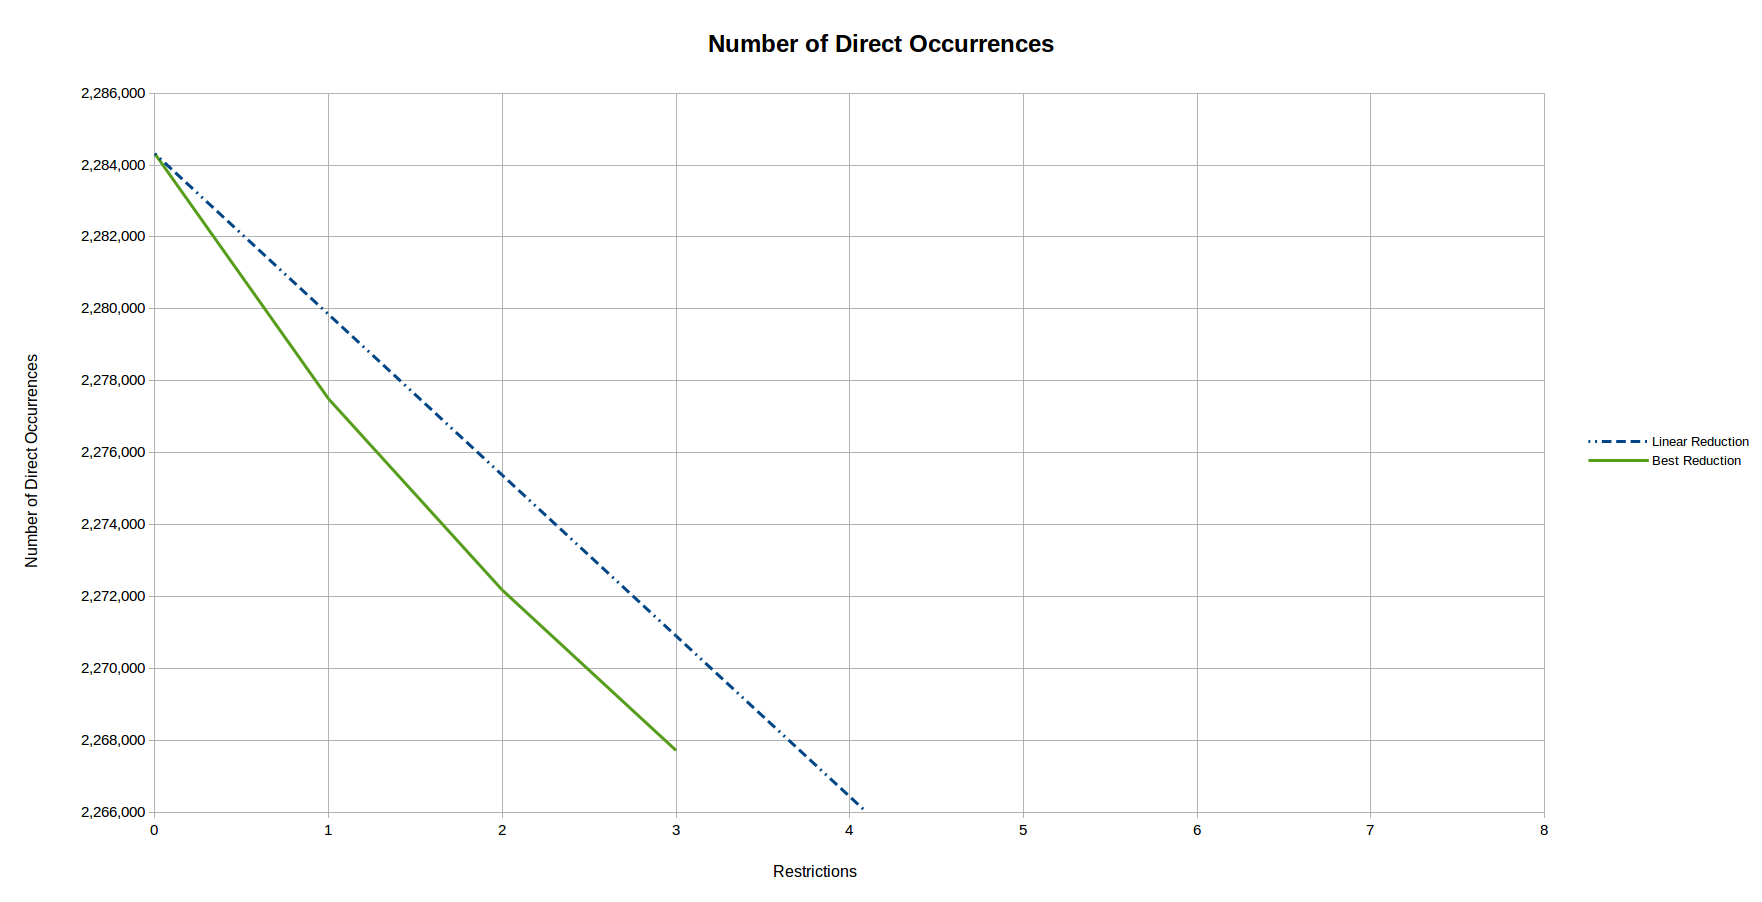
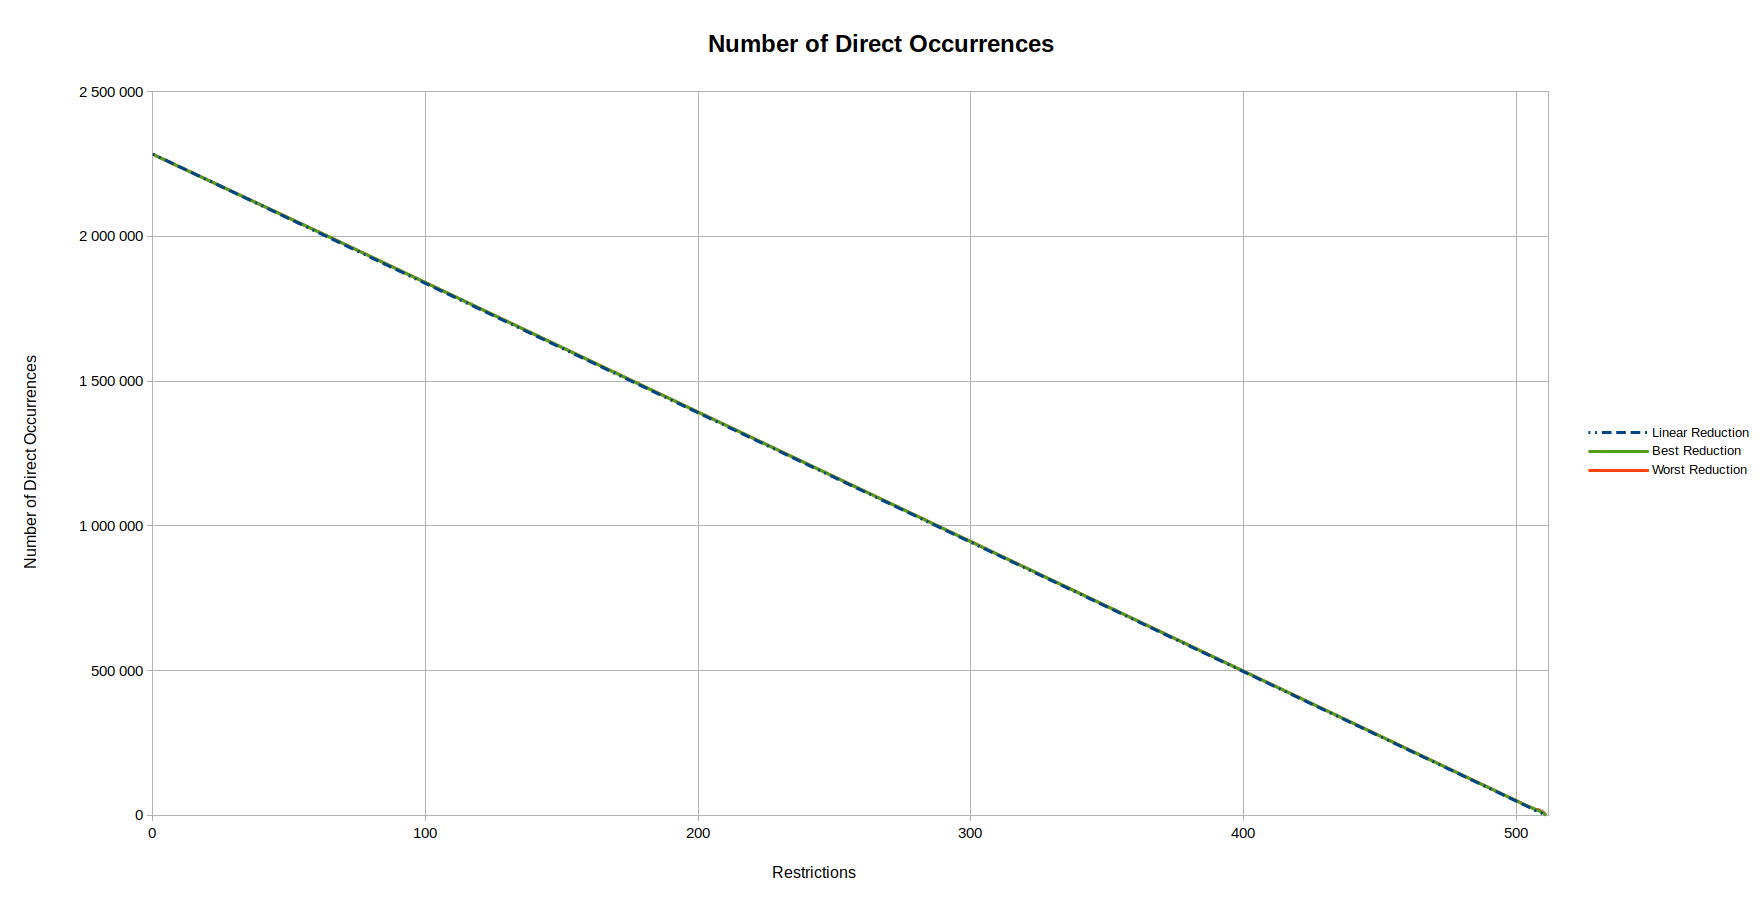
Updated the results report

diff --git a/results/Overview.md b/results/Overview.md
@@ -21,13 +21,16 @@ Results better than the linear reduction are marked in bold.
 
 | Restrictions | Linear Reduction | Best Reduction | Worst Reduction |
 |:------------:|:----------------:|:--------------:|:---------------:|
-|       0      | 60	              | 60             | 60              |
-|       1      | 60	              | 60             | 60              |
-|      65      | 52	              | 60             | 60              |
-|     507      |  0               | 70             | 70              |
-|     508      |  0               | 71             | 75              |
-|     509      |  0               | 66             | 81              |
-|     510      |  0               | 58             | 91              |
+| 0 | 60 | 60 | 60 |
+| 1 | 60 | 60 | 60 |
+| 65 | 52 | 60 | 60 |
+| 504 | 1 | 70 | 70 |
+| 505 | 1 | 70 | 72 |
+| 506 | 1 | 65 | 74 |
+| 507 | 0 | 70 | 71 |
+| 508 | 0 | 71 | 75 |
+| 509 | 0 | 66 | 81 |
+| 510 | 0 | 58 | 91 |
 |     511      |  0	              | [63](511/91eaaf8008a6bd389e724be1212f62e51a13e84d.md) | 95              |
 
 ![Lowest Number of Direct Output Occurrences](Lowest_Number_of_Direct_Output_Occurrences.png "Lowest Number of Direct Output Occurrences")
@@ -90,11 +93,21 @@ Results better than the linear reduction are marked in bold.
 
 | Restrictions | Linear Reduction | Best Reduction | Best Restriction |
 |:------------:|:----------------:|:--------------:| ---------------- |
-|       0      | 2,284,331        | 2,284,331      | [Initial Situation](000/000.md) |
-|       1      | 2,279,861        | (**2,277,498**)  | ([T256](001/t256.md)) |
-|       2      | 2,275,390        | (**2,272,178**)  | ([E069128-T256](002/e069128_t256.md), [O069128-T256](002/o069128_t256.md)) |
+| 0 | 2284331 | 2284331 | 2284331 |
+| 1 | 2279861 | 2278927 | 2278927 |
+| 65 | 1993761 | 1996797 | 1996797 |
+| 504 | 31292 | 32682 | 32682 |
+| 505 | 26822 | 28763 | 28920 |
+| 506 | 22352 | 25049 | 25324 |
+| 507 | 17881 | 20642 | 21197 |
+| 508 | 13411 | 16624 | 19392 |
+| 509 | 8941 | 12517 | 15520 |
+| 510 | 4470 | 7978 | 10583 |
+| 511 | 0 | 0 | 0 |
 
 ![Number of Direct Occurrences](Number_of_Direct_Occurrences.png "Number of Direct Occurrences")
+
+![Number of Direct Occurrences for 500 Restrictions and More](Number_of_Direct_Occurrences_or_Higher.png "Number of Direct Occurrences for 500 Restrictions and More")
 
 ## Complexity of the Least Complex Input Bit
 
